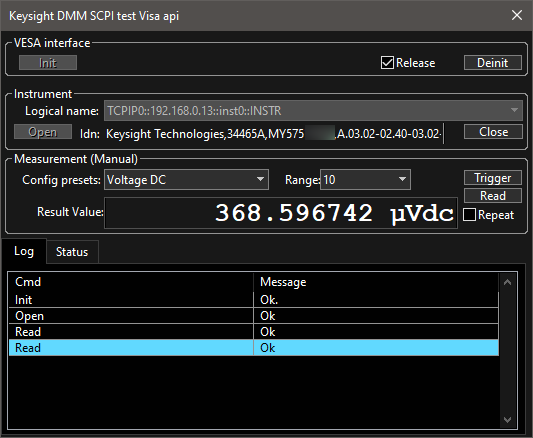
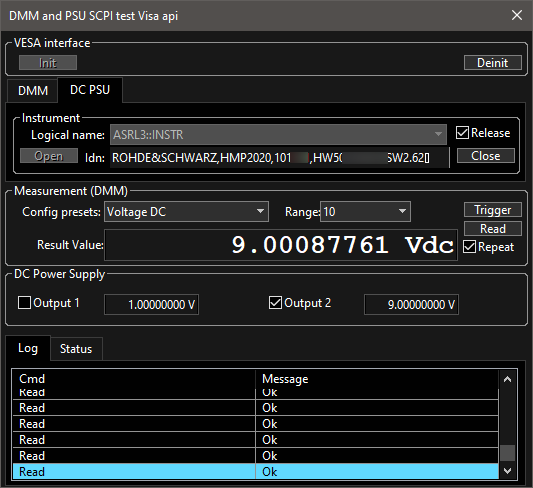
Separate lib and app.

diff --git a/src/VirtInst/dcpsu.cpp b/src/VirtInst/dcpsu.cpp
@@ -1,0 +1,126 @@
+#include "VirtInst.h"
+#include "eng.h"
+DcPsu::DcPsu()
+:m_Channel(0)
+{
+}
+DcPsu::~DcPsu()
+{
+}
+bool DcPsu::open(){
+	char* cstr=(char*)logicalName.Begin();
+	
+	statusCode = viOpen (defaultRM, cstr, VI_NULL, VI_NULL, &session);
+	if (statusCode < VI_SUCCESS)
+	{
+		handleError(cstr);
+		return false;
+	}
+	char * cmmand ="*IDN?\n";
+	char buffer[MAX_RESULT_LENGTH];
+	if(cmd("*IDN?\n", buffer)){
+		m_sIdn=buffer;
+	}else{
+		return false;
+	}
+	m_IsOpen=true;
+	WhenInstrumentCmdStatus("Open", 0, "Ok");
+//	if (m_GoToRemoteFirst){
+		//was not working? retest!
+		//statusCode=viGpibControlREN(session, VI_GPIB_REN_ASSERT_ADDRESS_LLO);
+		//if (statusCode<0) handleError("VI_GPIB_REN_ASSERT_ADDRESS_LLO");
+//	}
+	return true;
+}
+bool DcPsu::close(){
+	clear();
+	if (session) {
+		cmd("*CLS",NULL);
+		// cmd("SYST:LOCAL", NULL); //doesn't work
+		/*
+		if (mLocked){
+			statusCode=viUnlock(session);
+			if (statusCode<0) {
+				handleError("Unlock");
+			}
+		}
+		*/
+//		if (m_GoToLocalBack){
+			//Was not working
+			//Send instrument back to local mode from Remote mode.
+			//statusCode=viGpibControlREN(session, VI_GPIB_REN_ADDRESS_GTL);
+			//if (statusCode<0) handleError("GPIB_GTL");
+//		}
+		statusCode=viClose(session);
+	}
+	session=0;
+	m_IsOpen=false;
+	return true;
+}
+void DcPsu::selectChannel(int channel)
+{
+	char cmmand[MAX_MESSAGE_LENGTH];
+	sprintf(cmmand, "INST OUTP%d\n",channel);
+	if(cmd(cmmand, 0)){
+		m_Channel=channel;
+	}else{
+		m_Channel=0;
+		 handleError(cmmand);
+	}
+}
+bool DcPsu::getOutputChannelState(int channel)
+{
+	char cmmand[MAX_MESSAGE_LENGTH];
+	char buffer[MAX_RESULT_LENGTH];
+	if (m_Channel!=channel){
+		selectChannel(channel);
+	}
+	
+	sprintf(cmmand, "OUTP?\n");
+	if(cmd(cmmand, buffer)){
+		return buffer[0]=='1';
+	}else{
+		 handleError("getOutputChannelState");
+	}
+	return false;
+}
+void DcPsu::setOutputChannelState(int channel, bool state){
+	char cmmand[MAX_MESSAGE_LENGTH];
+	if (m_Channel!=channel){
+		selectChannel(channel);
+	}
+	
+	sprintf(cmmand, "OUTP %d\n", state?1:0);
+	if(cmd(cmmand, 0)){
+	}else{
+		 handleError("setOutputChannelState");
+	}
+}
+void DcPsu::getOutputMeasurement(int channel){
+	char cmmand[MAX_MESSAGE_LENGTH];
+	char buffer[MAX_RESULT_LENGTH];
+	if (m_Channel!=channel){
+		selectChannel(channel);
+	}
+	
+	sprintf(cmmand, "volt?\n");
+	if(cmd(cmmand, buffer)){
+		m_Voltage[channel]= atof(buffer);
+	}else{
+		 handleError("getOutputMeasurement");
+	}
+}
+const char* DcPsu::getOutputVoltageString(int channel)
+{
+	const char* sUnit="V";
+	if (m_Voltage[channel]>99e30){
+		m_sVoltage[channel]="Overload (";
+		m_sVoltage[channel]<<sUnit;
+		m_sVoltage[channel]<<")";
+	}
+	else{
+		m_sVoltage[channel]=eng(m_Voltage[channel], 9, 0);
+		m_sVoltage[channel]<<sUnit;
+	}
+	return m_sVoltage[channel].Begin();
+}

diff --git a/src/VirtInst/ibase.cpp b/src/VirtInst/ibase.cpp
@@ -1,0 +1,110 @@
+#include "VirtInst.h"
+/*
+Visa/Instrument base class implementation. Source file.
+Author: Barna Farago MYND-ideal. (C)2020
+
+Prereq:
+Agilent IO Library Suite that can downloaded at : www.agilent.com/find/iosuite/
+VISA Header Path:         $(VXIPNPPATH)winnt\include
+VISA Library 32 Path:     $(VXIPNPPATH)winnt\lib\msc
+VISA Library 64 Path:     $(VXIPNPPATH)winnt\Lib_x64\msc
+*/
+
+#define LLOGF(...)
+#define SEARCH_USB_INSTR ("?*INSTR")
+//#define SEARCH_USB_INSTR ("USB?*INSTR")
+//#define SEARCH_TCP_INSTR ("TCP?*INSTR")
+
+
+
+InstrumentBase::InstrumentBase()
+:
+ m_IsInit(false), m_IsOpen(false), session(0)
+ ,m_GoToLocalBack(true)	   //it works
+ ,m_GoToRemoteFirst(false) //doesn't work on 34465A, therefore turned off
+{
+}
+InstrumentBase::~InstrumentBase()
+{
+	// deInit();
+}
+
+void InstrumentBase::init(){
+	ViStatus s;
+	s=viOpenDefaultRM(&defaultRM);
+	if (s < VI_SUCCESS)
+	{
+		LLOGF("Could not open a session to the VISA Resource Manager!\n");
+		return;
+	}
+
+	s = viFindRsrc (defaultRM, SEARCH_USB_INSTR, &findList, &numInstrs, instrResourceString);
+	if (s < VI_SUCCESS)
+	{
+		//viOpen(defaultRM, )
+		LLOGF("Could not open a session to the VISA Resource Manager!\n");
+		return;
+	}
+	for(unsigned int i=0; i<numInstrs; i++){
+		if (i){
+			s=viFindNext(findList, instrResourceString);
+		}
+		if (s >=VI_SUCCESS){
+			WhenInstrumentFind(instrResourceString);
+		}
+	}
+	m_IsInit=true;
+}
+void InstrumentBase::deInit(){
+	if (m_IsOpen) close();
+	statusCode=viClose(defaultRM);
+	m_IsInit=false;
+}
+
+bool InstrumentBase::cmd(char * cmmand, char* buffer){
+	if (!session) return false;
+	statusCode = viPrintf (session, cmmand);
+	if (statusCode < VI_SUCCESS)
+	{
+		//LLOGF ("Error writing to the device %d.\n", i+1);
+		handleError(cmmand);
+		return false;
+	}
+	if (buffer){
+		statusCode = viScanf(session, "%t", buffer);
+		if (statusCode < VI_SUCCESS){
+			//LLOGF ("Error reading a response from the device %d.\n", i+1);
+			handleError("scanf");
+			return false;
+		}
+	}
+	return true;
+}
+void InstrumentBase::handleError(char* cmmand)
+{
+	ViStatus s;
+	ViChar buffer[MAX_MESSAGE_LENGTH];
+	if (statusCode<0){
+		m_WasError=true;
+		s=viStatusDesc(session, statusCode, buffer);
+		WhenInstrumentCmdStatus(cmmand, statusCode, buffer);
+		clear();
+		return;
+	}
+	//statusCode = viClose (session);
+}
+void InstrumentBase::clear()
+{
+	if (session>0)	{
+		viClear(session);
+		if (!m_WasError){
+			cmd("*CLS", NULL);
+		}
+	}
+	else{
+		if (defaultRM>0){
+		//	viClear(defaultRM);
+		}
+	}
+	m_WasError=false;
+}

diff --git a/src/VirtInst/ibase.h b/src/VirtInst/ibase.h
@@ -1,0 +1,47 @@
+#ifndef _VirtInst_ibase_h_
+#define _VirtInst_ibase_h_
+
+#include "visa.h"
+#include <CtrlLib/CtrlLib.h>
+#include <Core/Core.h>
+
+#define MAX_MESSAGE_LENGTH (1024) // status or error response
+#define MAX_RESULT_LENGTH (512)   // simple value result
+
+using namespace Upp;
+
+class InstrumentBase{
+	public:
+		InstrumentBase();
+		virtual ~InstrumentBase();
+		void init();
+		void deInit();
+		bool isOpen(){return m_IsOpen;}
+		bool wasError(){return m_WasError;}
+		const char* getIdn()const { return m_sIdn.Begin();}
+		void SetGoToLocalBack(bool b){m_GoToLocalBack=b;}
+		bool cmd(char * cmmand, char* buffer);
+		void handleError(char* cmmand);
+		void clear();
+
+		Event<char*>  WhenInstrumentFind;
+		Event<char*, int, char*>  WhenInstrumentCmdStatus;
+		String logicalName;
+		virtual bool open()=0;
+		virtual bool close()=0;
+	protected:
+		ViSession defaultRM;
+		ViSession session;
+		ViStatus statusCode;
+		ViUInt32 numInstrs;
+		ViFindList findList;
+		char instrResourceString[VI_FIND_BUFLEN];
+		bool m_IsInit;
+		bool m_IsOpen;
+		bool m_WasError;
+		String m_sIdn;
+		bool m_GoToLocalBack;
+		bool m_GoToRemoteFirst; // this one looks like not so usable
+};
+
+#endif

diff --git a/src/VirtInst/dcpsu.h b/src/VirtInst/dcpsu.h
@@ -1,0 +1,25 @@
+#ifndef _VirtInst_dcpsu_h_
+#define _VirtInst_dcpsu_h_
+#include "VirtInst.h"
+
+#define DCPSU_MAXCHANNEL (8)
+
+class DcPsu : public InstrumentBase {
+	public:
+		DcPsu();
+		~DcPsu();
+		bool open();
+		bool close();
+		void selectChannel(int channel);
+		bool getOutputChannelState(int channel);
+		void setOutputChannelState(int channel, bool state);
+		void getOutputMeasurement(int channel);
+		double getOutputVoltageDouble(int channel){return m_Voltage[channel];}
+		const char* getOutputVoltageString(int channel);
+		
+	protected:
+		double m_Voltage[DCPSU_MAXCHANNEL];
+		String m_sVoltage[DCPSU_MAXCHANNEL];
+		int m_Channel;
+};
+#endif

diff --git a/src/VirtInst/VirtInst.h b/src/VirtInst/VirtInst.h
@@ -1,0 +1,8 @@
+#ifndef _VirtInst_VirtInst_h_
+#define _VirtInst_VirtInst_h_
+
+#include "ibase.h"
+#include "idmm.h"
+#include "dcpsu.h"
+
+#endif
